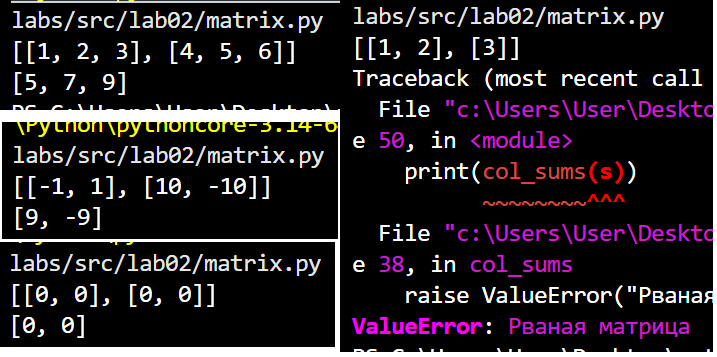
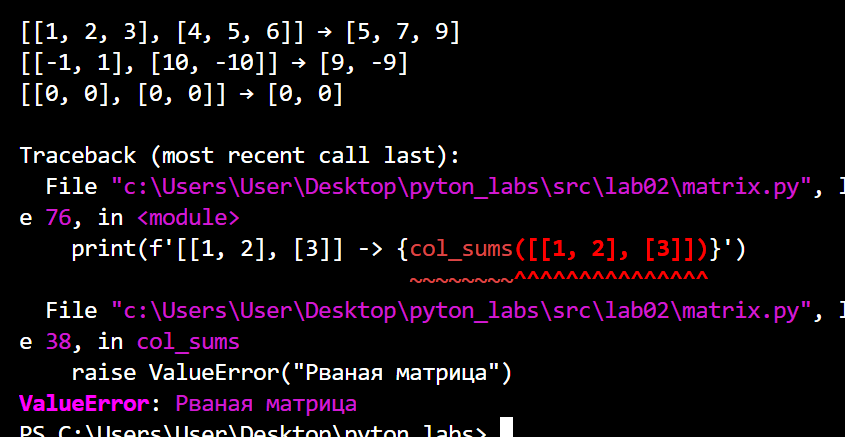
1

Changed region(s): [[0.0, 0.0, 1.0, 1.0]]

diff --git a/src/lab02/matrix.py b/src/lab02/matrix.py
@@ -44,7 +44,33 @@ def col_sums(mat):
         res.append(s)
     return res
 
-s = eval(input())     
-print(transpose(s))
-print(row_sums(s))
-print(col_sums(s))
+print(f'''
+transpose
+
+[[1, 2, 3]] -> {transpose([[1, 2, 3]])}
+[[1], [2], [3]] -> {transpose([[1], [2], [3]])}
+[[1, 2], [3, 4]] -> {transpose([[1, 2], [3, 4]])}
+[] -> {transpose([])}
+''')
+
+#print(f'[[1, 2], [3]] -> {transpose([[1, 2], [3]])}')
+
+print(f'''
+row_sums
+
+[[1, 2, 3], [4, 5, 6]] -> {row_sums([[1, 2, 3], [4, 5, 6]])}
+[[-1, 1], [10, -10]] -> {row_sums([[-1, 1], [10, -10]])}
+[[0, 0], [0, 0]] -> {row_sums([[0, 0], [0, 0]])}
+''')
+
+#print(f'[[1, 2], [3]] -> {row_sums([[1, 2], [3]])}')
+
+print(f'''
+col_sums
+
+[[1, 2, 3], [4, 5, 6]] → {col_sums([[1, 2, 3], [4, 5, 6]])}
+[[-1, 1], [10, -10]] → {col_sums([[-1, 1], [10, -10]])}
+[[0, 0], [0, 0]] → {col_sums([[0, 0], [0, 0]])}
+''')
+
+print(f'[[1, 2], [3]] -> {col_sums([[1, 2], [3]])}')
